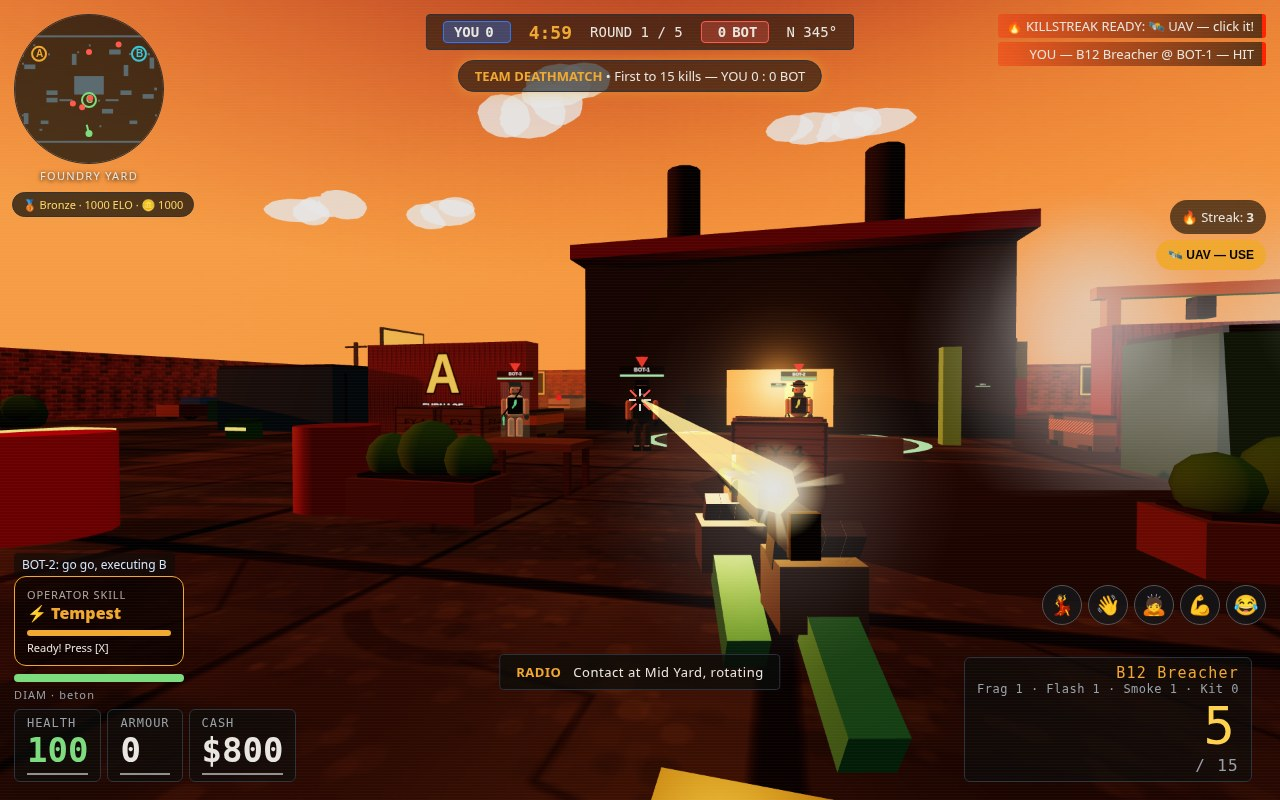
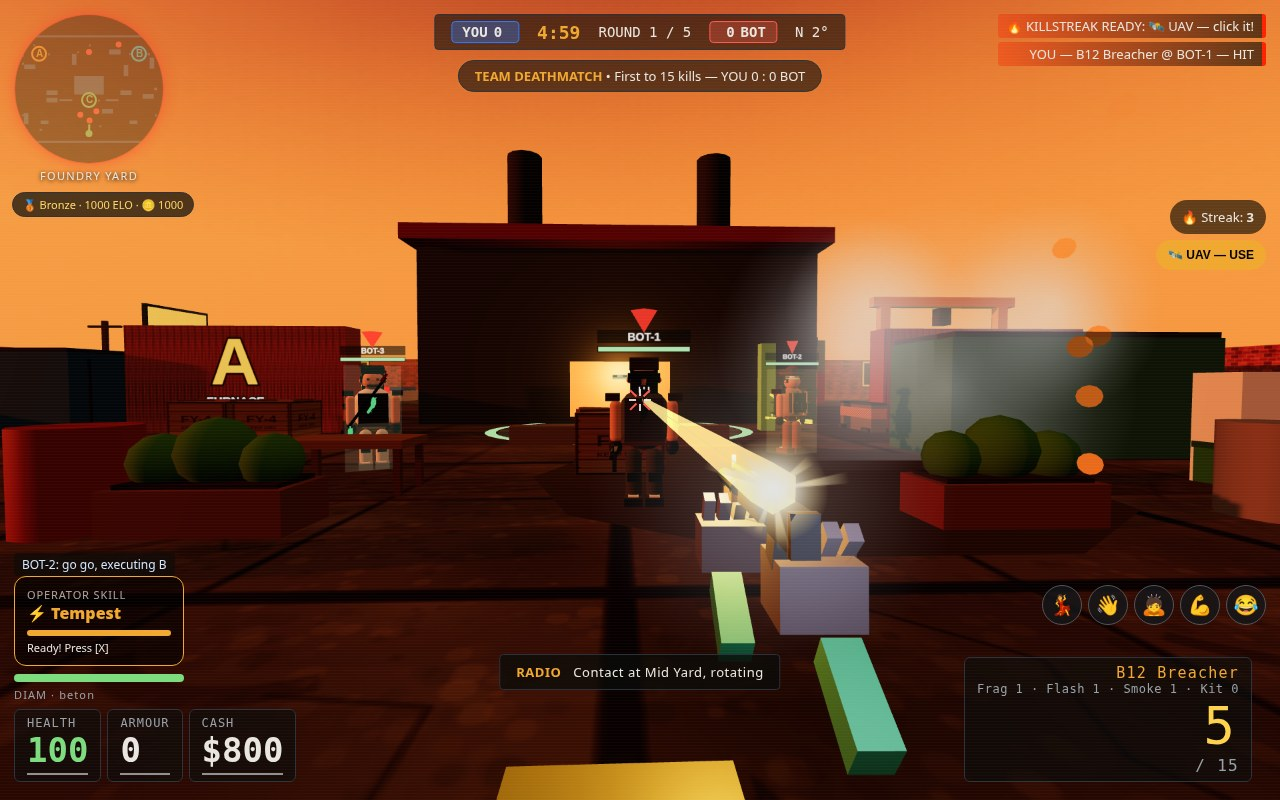
forge-fps character-detail pass: detailed bots (shoulder pads, knee pads, belt+buckle, khaki chest straps; smooth walk-swing ease), clearer first-person hands (individual gapped fingers with varied curl, thinner forearms, cool-white viewmodel fill light, viewmodel raised), buy menu EQUIPMENT above t

diff --git a/game/src/characters.js b/game/src/characters.js
@@ -254,6 +254,7 @@ export function createBotModel(weaponSkin, weaponId, name, charOpId = 'specter',
     const shoe = box(0.24, 0.12, 0.36, shoeM); shoe.position.set(0, -0.72, -0.05); pivot.add(shoe);
     const laces = box(0.14, 0.02, 0.2, new THREE.MeshStandardMaterial({ color: 0xe9e6df, roughness: 0.9 }));
     laces.position.set(0, -0.65, -0.08); pivot.add(laces);
+    const knee = box(0.16, 0.12, 0.06, darkM); knee.position.set(0, -0.4, -0.11); pivot.add(knee);
     group.add(pivot);
     return pivot;
   };
@@ -270,8 +271,19 @@ export function createBotModel(weaponSkin, weaponId, name, charOpId = 'specter',
   for (const px of [-0.13, 0.13]) {
     const pocket = box(0.16, 0.16, 0.04, trimM); pocket.position.set(px, 0.32, 0.25); torso.add(pocket);
   }
+  // Shoulder pads + belt + chest straps: the torso reads as a soldier even
+  // at distance (bare capsule shoulders vanish past 10m).
+  for (const sx of [-0.42, 0.42]) {
+    const pad = box(0.18, 0.1, 0.26, trimM); pad.position.set(sx, 0.66, 0); torso.add(pad);
+  }
+  const beltM = new THREE.MeshStandardMaterial({ color: 0x4a3a28, roughness: 0.9 });
+  const belt = box(0.52, 0.07, 0.36, beltM); belt.position.set(0, 0.06, 0); torso.add(belt);
+  const buckle = box(0.1, 0.05, 0.02, goldM); buckle.position.set(0, 0.06, 0.19); torso.add(buckle);
+  const strapM = new THREE.MeshStandardMaterial({ color: 0x9a8a6a, roughness: 0.9 });
+  for (const sx of [-0.22, 0.22]) {
+    const strap = box(0.05, 0.5, 0.02, strapM); strap.position.set(sx, 0.4, 0.25); torso.add(strap);
+  }
   if (skin.zombie) {
-    const belt = box(0.52, 0.07, 0.36, darkM); belt.position.set(0, 0.06, 0); torso.add(belt);
     const tear = box(0.18, 0.14, 0.03, new THREE.MeshStandardMaterial({ color: 0x1e2a16, roughness: 1 }));
     tear.position.set(-0.12, 0.42, 0.26); tear.rotation.z = 0.4; torso.add(tear);
   }
@@ -547,13 +559,16 @@ export function createBotModel(weaponSkin, weaponId, name, charOpId = 'specter',
       const walking = speed > 0.5;
       // Backwards walk (v18.18): backpedalling while facing the player —
       // legs swing the other way, torso leans back.
-      const sw = walking ? Math.sin(time * 10) * 0.6 * (bot.backwards ? -1 : 1) : 0;
+      // Smooth swing: the amplitude eases in/out instead of snapping when
+      // a bot starts or stops walking.
+      bot._swAmp = (bot._swAmp ?? 0) + ((walking ? 0.6 : 0) - (bot._swAmp ?? 0)) * Math.min(1, dt * 8);
+      const sw = Math.sin(time * 10) * bot._swAmp * (bot.backwards ? -1 : 1);
       legL.rotation.x = sw;
       legR.rotation.x = -sw;
-      armL.rotation.x = walking ? -sw * 0.7 : 0;
-      armR.rotation.x = walking ? sw * 0.3 : 0;
+      armL.rotation.x = -sw * 0.7;
+      armR.rotation.x = sw * 0.3;
       armL.rotation.z = 0; armR.rotation.z = 0;
-      torso.position.y = 0.78 + (walking ? Math.abs(Math.sin(time * 10)) * 0.03 : 0);
+      torso.position.y = 0.78 + Math.abs(Math.sin(time * 10)) * 0.05 * bot._swAmp;
       torso.rotation.x = bot.backwards && walking ? 0.12 : 0;
       headG.position.y = 1.5 + (walking ? 0 : Math.sin(time * 2) * 0.015); // idle breathing
       headG.rotation.x = 0; headG.rotation.z = 0;
@@ -719,7 +734,8 @@ export function createBotModel(weaponSkin, weaponId, name, charOpId = 'specter',
 export function createFirstPersonHands(S) {
   const group = new THREE.Group();
   const gloveM = new THREE.MeshStandardMaterial({ color: GLOVE_COLOR[S.charSkin] || 0x4a4a52, roughness: 0.9 });
-  const sleeveM = new THREE.MeshStandardMaterial({ color: 0x2e8b62, roughness: 0.85, emissive: 0x0a2e1c, emissiveIntensity: 0.4 });
+  const fingerM = new THREE.MeshStandardMaterial({ color: 0x5c5c66, roughness: 0.9 });
+  const sleeveM = new THREE.MeshStandardMaterial({ color: 0x2e8b62, roughness: 0.85, emissive: 0x0a2e1c, emissiveIntensity: 0.25 });
   const gunM = new THREE.MeshStandardMaterial({ color: 0x2b2f33, roughness: 0.5, metalness: 0.5 });
   const barrelM = new THREE.MeshStandardMaterial({ color: 0x16181c, roughness: 0.35, metalness: 0.8 });
   const gripM = new THREE.MeshStandardMaterial({ color: 0x14161a, roughness: 0.95 });
@@ -736,22 +752,22 @@ export function createFirstPersonHands(S) {
   const handsGroup = new THREE.Group(); group.add(handsGroup);
   const handR = box(0.21, 0.16, 0.2, gloveM); handR.position.set(0.08, -0.2, -0.04); handsGroup.add(handR);
   for (let i = 0; i < 4; i++) {
-    const f = box(0.05, 0.14, 0.05, gloveM);
-    f.position.set(0.02 + i * 0.05, -0.1, -0.03); f.rotation.x = 0.6; handsGroup.add(f);
+    const f = box(0.038, 0.14, 0.05, fingerM);
+    f.position.set(0.015 + i * 0.052, -0.1, -0.03 - i * 0.004); f.rotation.x = 0.45 + i * 0.12; handsGroup.add(f);
   }
   const thumbR = box(0.04, 0.06, 0.12, gloveM); thumbR.position.set(0.16, -0.15, -0.03); thumbR.rotation.y = -0.6; handsGroup.add(thumbR);
-  const armR = box(0.12, 0.12, 0.3, sleeveM); armR.position.set(0.1, -0.35, 0.14); armR.rotation.x = 0.5; handsGroup.add(armR);
+  const armR = box(0.095, 0.095, 0.24, sleeveM); armR.position.set(0.11, -0.38, 0.16); armR.rotation.x = 0.55; handsGroup.add(armR);
   // Left hand rides a subgroup so buildGun can slide it along the fore-end
   // per weapon class (pump on shotguns, handguard on rifles, grip on pistols).
   const gripL = new THREE.Group(); handsGroup.add(gripL);
   const handL = box(0.21, 0.15, 0.2, gloveM); handL.position.set(-0.05, -0.21, 0); gripL.add(handL);
   for (let i = 0; i < 4; i++) {
-    const f = box(0.05, 0.13, 0.05, gloveM);
-    f.position.set(-0.11 + i * 0.05, -0.11, 0.0); f.rotation.x = 0.6; gripL.add(f);
+    const f = box(0.038, 0.13, 0.05, fingerM);
+    f.position.set(-0.12 + i * 0.052, -0.11, 0.0 - i * 0.004); f.rotation.x = 0.45 + i * 0.12; gripL.add(f);
   }
   const thumbL = box(0.04, 0.06, 0.12, gloveM); thumbL.position.set(0.03, -0.16, 0); thumbL.rotation.y = 0.6; gripL.add(thumbL);
   gripL.position.set(0, 0, -0.5);
-  const armL = box(0.12, 0.12, 0.3, sleeveM); armL.position.set(-0.06, -0.35, -0.28); armL.rotation.x = 0.55; handsGroup.add(armL);
+  const armL = box(0.095, 0.095, 0.24, sleeveM); armL.position.set(-0.08, -0.38, -0.3); armL.rotation.x = 0.6; handsGroup.add(armL);
   // Camo repaints the GUN only: hands + sleeves keep their colours.
   handsGroup.traverse(o => { if (o.isMesh) o.userData.noCamo = true; });
   // Gun (rebuilt per weapon below).

diff --git a/game/style.css b/game/style.css
@@ -128,13 +128,13 @@
   .mythic-btn.void.sel { border-color:#8a00ff; background:#1e0033; }
   #buy-menu { position:fixed; inset:0; display:grid; place-items:center; background:rgba(20,16,12,.7); pointer-events:auto; }
   #buy-menu[hidden] { display:none; }
-  .buy-panel { width:min(880px,94%); max-height:92vh; overflow-y:auto; background:#1e2228; border:1px solid var(--amber); border-radius:6px; padding:20px 22px; }
-  .buy-head { display:flex; justify-content:space-between; align-items:baseline; margin-bottom:12px; }
+  .buy-panel { width:min(880px,94%); max-height:92vh; overflow-y:auto; background:#1e2228; border:1px solid var(--amber); border-radius:6px; padding:14px 18px; }
+  .buy-head { display:flex; justify-content:space-between; align-items:baseline; margin-bottom:8px; }
   .buy-panel h2 { margin:0; color:var(--amber); letter-spacing:.08em; }
   #buy-money { color:#4ade80; font-weight:700; font-size:20px; }
-  .buy-sec { color:var(--muted); font-size:11px; letter-spacing:.14em; margin:10px 0 8px; }
-  .buy-grid { display:grid; grid-template-columns:repeat(3,1fr); gap:8px; }
-  .buy-row { display:flex; flex-direction:column; gap:2px; width:100%; text-align:left; font:inherit; color:var(--ink); background:#262b31; border:1px solid #2c323a; border-radius:5px; padding:10px 12px; cursor:pointer; }
+  .buy-sec { color:var(--muted); font-size:11px; letter-spacing:.14em; margin:8px 0 6px; }
+  .buy-grid { display:grid; grid-template-columns:repeat(4,1fr); gap:6px; }
+  .buy-row { display:flex; flex-direction:column; gap:2px; width:100%; text-align:left; font:inherit; color:var(--ink); background:#262b31; border:1px solid #2c323a; border-radius:5px; padding:8px 10px; cursor:pointer; }
   .buy-row:hover { border-color:var(--amber); }
   .buy-row .buy-name { font-size:14px; }
   .buy-row .buy-sub { color:var(--muted); font-size:12px; }

diff --git a/game/src/weapon.js b/game/src/weapon.js
@@ -28,8 +28,11 @@ export function createWeapon(scene, camera, S, audio, effects, cbs = {}) {
   // First-person hands + gun viewmodel attached to the camera.
   const hands = createFirstPersonHands(S);
   hands.group.scale.setScalar(0.62);
-  hands.group.position.set(0.22, -0.2, -0.8);
+  hands.group.position.set(0.2, -0.16, -0.8);
   camera.add(hands.group);
+  const fillLight = new THREE.PointLight(0xdfe8ff, 1.0, 2, 2);
+  fillLight.position.set(0.25, -0.05, -0.35);
+  camera.add(fillLight);
   scene.add(camera);
   const gun = hands.group; // the whole viewmodel (hands + gun), for positioning
 

diff --git a/game/src/main.js b/game/src/main.js
@@ -1906,7 +1906,7 @@ function runShot(name) {
     game.startRound();
     weather.applyWeather('sunset'); S.weatherManual = true;
     // Place 3 bots visible mid-map ahead of the player.
-    const spots = [[-4, 10, 100], [1, 5, 40], [-9, 8, 100]];
+    const spots = [[0, 17, 100], [4, 12, 40], [-5, 14, 100]];
     spots.forEach(([x, z, hp], i) => {
       const b = S.bots[i]; b.x = x; b.z = z; b.hp = hp; b.state = 'combat';
     });
